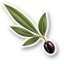
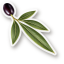
İmleç: zeytin sol üstte (tıklama noktası zeytinin ucu), her yerde aynı imleç
Kullanıcı: "Farenin logosu asla değişmeyecek. Sadece yön değişmesini istiyorum.
Zeytin olan kısım sol tarafa doğru olsun ki kimse farenin nereye tıkladığını
bulmakta zorlanmasın."

- Görsel aynı çizim (dükkan fotoğrafları/FARE İMLECİ/İMLEÇ.png), yalnız 180°
  döndürüldü: zeytin sol üstte, sıradan fare okunun ucu gibi; yapraklar sağ
  alta uzanır. Boyut önceki imleçle aynı (32×32, 2x kopyası 64×64).
- Tıklama noktası (hotspot) 26,25 (sağ alt) → 3,3: zeytinin ucu.
- İmleç artık hiçbir yerde değişmez: bağlantı/düğme üstündeki altın halkalı
  sürüm, metin kutusundaki I imleci, pasif düğmedeki yasak işareti, ürün
  fotoğrafındaki büyüteç/artı imleci ve demo banka sayfasındaki sistem imleci
  kaldırıldı. Tek kural + !important (bileşenlerdeki cursor bildirimleri ve
  satır içi stiller ezemez). Dokunmatik cihazlarda imleç yok (değişmedi).
- Kaldırılan imleç görselleri harbi/kaldirilan-gorseller-20261006/imlec-eski.

diff --git a/app/globals.css b/app/globals.css
@@ -768,61 +768,22 @@ ul, ol {
 
 /* ============================================================
    CUSTOM CURSOR — zeytin dalı (yalnız hassas işaretçili cihazlar)
-   Kaynak: dükkan fotoğrafları/FARE İMLECİ/İMLEÇ.png. Tıklama noktası = zeytin meyvesinin ucu
-   (hotspot 26,25 — 32×32 tuvalin sağ altı); yapraklar imlecin sol üstünde durur.
-   Bağlantı/düğme üzerinde zeytinin etrafında altın halka çıkar (tıklanabilir olduğu anlaşılsın).
-   Görseller: scripts/generate-cursor.cjs → /cursor/olive{,-link}-{32,64}.png (64 = 2x)
+   Kaynak: dükkan fotoğrafları/FARE İMLECİ/İMLEÇ.png, 180° döndürülmüş: zeytin sol üstte, sıradan fare okunun
+   ucu gibi. Tıklama noktası = zeytinin ucu (hotspot 3,3 — 32×32 tuvalin sol üstü); yapraklar sağ alta uzanır.
+   Kullanıcı kuralı: imleç HİÇBİR YERDE değişmez — bağlantı, düğme, metin kutusu, pasif düğme, ürün fotoğrafı
+   (yakınlaştırma), harita dahil hep aynı görsel. Bu yüzden tek kural ve !important: bileşenlerdeki
+   cursor: pointer / zoom-in / text / not-allowed gibi bildirimler (satır içi stiller dahil) bunu ezemez.
+   Görsel: scripts/generate-cursor.cjs → /cursor/olive-{32,64}.png (64 = 2x)
    - Tuval 32 px'i aşmaz: Chrome daha büyük imleçleri pencere kenarında gizler
    - Sadece @media (pointer: fine): dokunmatik/mobilde tamamen kapalı
    - JS yok: sayfa açılışında yanıp sönme olmaz
-   - Metin alanlarında normal metin imleci korunur
    ============================================================ */
 @media (pointer: fine) {
   html,
   *,
   *::before,
   *::after {
-    cursor: url("/cursor/olive-32.png") 26 25, auto;
-    cursor: image-set(url("/cursor/olive-32.png") 1x, url("/cursor/olive-64.png") 2x) 26 25, auto;
-  }
-
-  /* Alt öğeler dahil (bağlantı içindeki span/svg üstünde de halka görünsün) */
-  a,
-  a *,
-  button,
-  button *,
-  [role="button"],
-  [role="button"] *,
-  [role="tab"],
-  [role="tab"] *,
-  label[for],
-  select,
-  summary,
-  summary *,
-  .btn,
-  .btn * {
-    cursor: url("/cursor/olive-link-32.png") 26 25, pointer;
-    cursor: image-set(url("/cursor/olive-link-32.png") 1x, url("/cursor/olive-link-64.png") 2x) 26 25, pointer;
-  }
-
-  input:not([type="checkbox"]):not([type="radio"]):not([type="range"]):not([type="submit"]):not([type="button"]):not([type="reset"]):not([type="file"]),
-  textarea,
-  [contenteditable]:not([contenteditable="false"]) {
-    cursor: text;
-  }
-
-  :disabled,
-  :disabled *,
-  [aria-disabled="true"],
-  [aria-disabled="true"] * {
-    cursor: not-allowed;
-  }
-
-  input[type="range"] {
-    cursor: grab;
-  }
-
-  input[type="range"]:active {
-    cursor: grabbing;
+    cursor: url("/cursor/olive-32.png") 3 3, auto !important;
+    cursor: image-set(url("/cursor/olive-32.png") 1x, url("/cursor/olive-64.png") 2x) 3 3, auto !important;
   }
 }

diff --git a/components/product/ProductGallery.module.css b/components/product/ProductGallery.module.css
@@ -1,4 +1,5 @@
-/* Ürün fotoğrafları: kırpılmadan (contain), beyaz zeminde; fare / dokunmayla yakınlaştırma */
+/* Ürün fotoğrafları: kırpılmadan (contain), beyaz zeminde; fare / dokunmayla yakınlaştırma.
+   İmleç burada da sitenin zeytin imleci kalır (app/globals.css; kullanıcı kuralı: imleç hiç değişmez). */
 
 .gallery {
   display: flex;
@@ -18,7 +19,6 @@
   border-radius: var(--radius-lg);
   border: 1px solid var(--color-border-light);
   background-color: var(--color-surface);
-  cursor: zoom-in;
   /* Yakınlaşmamışken sayfa dikey kaydırılabilir; dokunarak yakınlaşınca sürükleme fotoğrafı gezdirir */
   touch-action: pan-y;
   user-select: none;
@@ -26,9 +26,6 @@
   -webkit-touch-callout: none;
 }
 
-.stage[data-zoom="hover"] {
-  cursor: crosshair;
-}
 
 .stage[data-zoom="touch"] {
   touch-action: none;
@@ -61,7 +58,6 @@
   display: flex;
   align-items: center;
   justify-content: center;
-  cursor: default;
   background-color: var(--color-bg-soft);
 }
 
@@ -90,10 +86,6 @@
   .hintTouch {
     display: inline;
   }
-
-  .stage {
-    cursor: default;
-  }
 }
 
 .thumbs {
@@ -111,7 +103,6 @@
   border: 2px solid var(--color-border-light);
   border-radius: var(--radius-md);
   background-color: var(--color-surface);
-  cursor: pointer;
   flex-shrink: 0;
 }
 

diff --git a/app/demo-odeme/[attempt]/demo-odeme.module.css b/app/demo-odeme/[attempt]/demo-odeme.module.css
@@ -31,19 +31,7 @@
   font-family: var(--font-body);
 }
 
-/* Mağazanın zeytin imleci bu sayfada yok: bankanın sayfası gibi sistem imleci */
-.page,
-.page * {
-  cursor: auto;
-}
-.page a,
-.page button:not(:disabled),
-.page button:not(:disabled) * {
-  cursor: pointer;
-}
-.page input {
-  cursor: text;
-}
+/* İmleç: sitenin her yerinde olduğu gibi zeytin imleci (app/globals.css; kullanıcı kuralı: imleç hiç değişmez) */
 
 .sheet {
   width: 100%;
